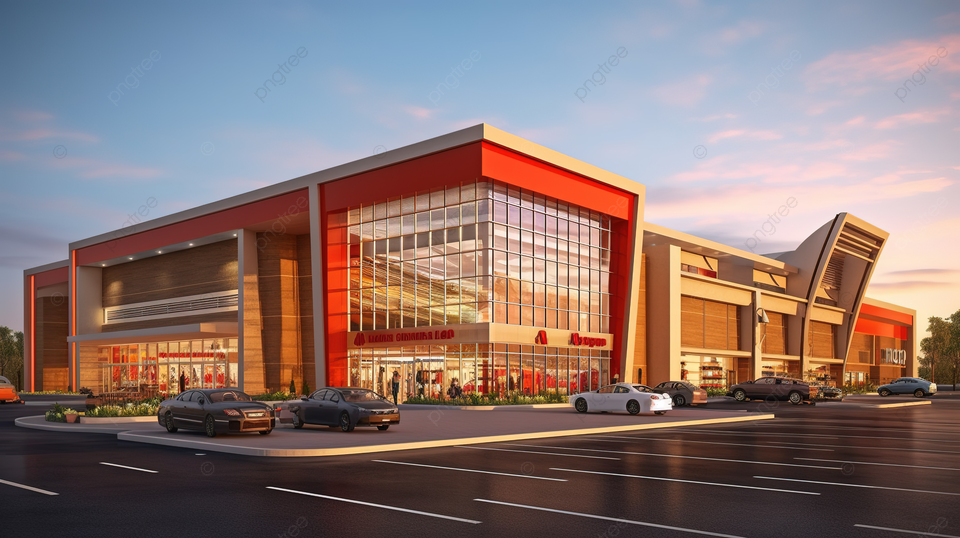
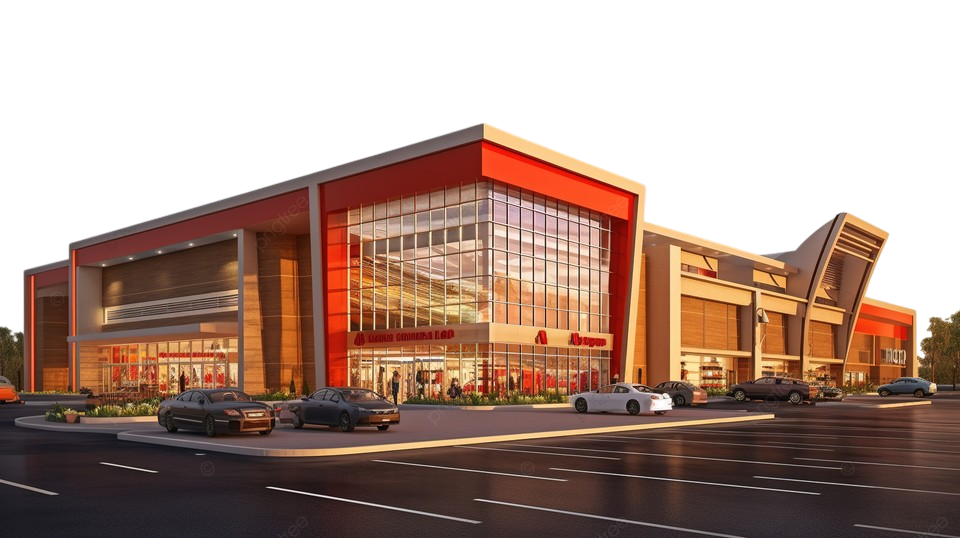
update

diff --git a/src/app/module/auth/formAuthLogin.tsx b/src/app/module/auth/formAuthLogin.tsx
@@ -1,0 +1,105 @@
+import React from "react";
+import useAuth from "../../hooks/useAuth";
+import { useForm } from "react-hook-form";
+import { Link } from "react-router-dom";
+import { FaDiscord, FaGoogle } from "react-icons/fa6";
+import { Submit } from "../widgets/Submit";
+import { SignWithAuthCreated } from "./signWithAuthCreated";
+
+interface FormAuths {
+  input_iphone: string;
+  password_input: string;
+}
+
+export const FormAuthLogin: React.FC<FormAuths> = ({
+  input_iphone,
+  password_input,
+}) => {
+  const { error, isLoading, onSubmit, success } = useAuth({ methods: "login" });
+  const {
+    register,
+    reset,
+    formState: { errors },
+    handleSubmit,
+  } = useForm();
+
+  
+
+  return (
+    <div className="w-full flex relative justify-end items-center h-full">
+      <form
+        onSubmit={handleSubmit(onSubmit)}
+        className="w-full  lg:mx-28 z-10 max-w-lg rounded-3xl border py-5 backdrop-blur-lg px-8"
+      >
+        <SignWithAuthCreated sign="Sign in" link="/auth/registration" title="Sign Up" />
+        <div key={input_iphone} className="w-full relative  mb-6 md:mb-0">
+          <label
+            className="block uppercase tracking-wide text-white text-xs font-bold mb-2"
+            htmlFor={`grid-first-${input_iphone}`}
+          >
+            {input_iphone}
+          </label>
+          <input
+            className={`appearance-none block w-full bg-gray-50 text-gray-700 border rounded-lg py-3  px-4 mb-8 leading-tight focus:outline-none focus:bg-white ${
+              errors[input_iphone] && "border-red-500"
+            }`}
+            id={`grid-first-${input_iphone}`}
+            type="text"
+            {...register(input_iphone, {
+              required: "This field is required",
+            })}
+            placeholder="Jane"
+          />
+          {errors[input_iphone] && (
+            <>
+              <p className="text-white absolute -bottom-7 italic">
+                {errors[input_iphone].message}
+              </p>
+              <span className="bg-red-500 w-72 blur-md rounded-xl absolute h-4 -mt-6 -z-10">
+                {" "}
+              </span>
+            </>
+          )}
+        </div>
+        <div key={password_input} className="flex flex-wrap -mx-3 mb-6">
+          <div className="w-full relative px-3">
+            <label
+              className="block uppercase tracking-wide text-white text-xs font-bold mb-2"
+              htmlFor={`grid-${password_input}`}
+            >
+              {password_input}
+            </label>
+            <input
+              className={`appearance-none block w-full bg-gray-50 text-gray-700 border rounded-lg py-3  px-4 mb-8 leading-tight focus:outline-none focus:bg-white ${
+                errors[password_input] && "border-red-500"
+              }`}
+              id={`grid-${password_input}`}
+              {...register(password_input, {
+                required: "This field is required",
+              })}
+              type="password"
+              placeholder="****************"
+            />
+            {errors[password_input] && (
+              <>
+                <p className="text-white absolute  -bottom-0 italic">
+                  {errors[password_input].message}
+                </p>
+                <span className="bg-red-500 w-72 blur-md rounded-xl absolute h-4 -mt-6 -z-10">
+                  {" "}
+                </span>
+              </>
+            )}
+          </div>
+        </div>
+        <Submit
+          reset={reset}
+          isLoading={isLoading}
+          bottom2="Sign in"
+          success={success}
+          error={error}
+        />
+      </form>
+    </div>
+  );
+};

diff --git a/src/app/module/auth/signWithAuthCreated.tsx b/src/app/module/auth/signWithAuthCreated.tsx
@@ -1,0 +1,38 @@
+import React from 'react'
+import { FaDiscord, FaGoogle} from 'react-icons/fa6';
+import { Link } from 'react-router-dom';
+
+export const SignWithAuthCreated = ({link,title,sign}:{link:string,title:string,sign:string}) => {
+    return (
+      <div className="text-white">
+        <h1 className="text-2xl font-bold">{title}</h1>
+        <p>
+          Don`t have an account ?
+          <span className="text-rose-700 font-bold hover:text-black pl-4">
+            <Link to={link}>{sign}</Link>
+          </span>
+        </p>
+        <div className="flex my-7 gap-4 flex-col">
+          <button type='button' className="border flex justify-center items-center gap-3 border-slate-200 rounded-3xl py-2 hover:bg-white hover:text-slate-900 transition-all duration-400">
+            {" "}
+            <span>Continue with Google </span> <FaGoogle />
+          </button>
+          <button type='button' className="border flex justify-center items-center gap-3 border-slate-200 rounded-3xl py-2 hover:bg-white hover:text-slate-900 transition-all duration-400">
+            <span> Continue with Discord </span>
+            <FaDiscord />
+          </button>
+        </div>
+        <div className="my-8">
+          <div className="flex">
+            <div className="relative w-10 bg-black m-auto">
+              <span className="absolute -mt-[13px] font-bold text-base px-2 backdrop-blur-lg bg-black rounded ">
+                or
+              </span>
+            </div>
+          </div>
+          <hr />
+        </div>
+      </div>
+    );
+  };
+

diff --git a/src/app/module/auth/FormAuth.tsx b/src/app/module/auth/FormAuth.tsx
@@ -2,6 +2,7 @@ import React, { Component, ComponentProps, useState } from "react";
 import { useForm } from "react-hook-form";
 import useAuth from "../../hooks/useAuth";
 import { Submit } from "../widgets/Submit";
+import { SignWithAuthCreated } from "./signWithAuthCreated";
 
 interface FormAuths {
   first_input: string;
@@ -41,10 +42,12 @@ export const FormAuth: React.FC<FormAuths> = ({
   const { error, isLoading, onSubmit, success } = useAuth({methods:'register'});
   
   return (
+    <div className="w-full flex relative justify-start items-center h-full">
     <form
       onSubmit={handleSubmit(onSubmit)}
-      className="w-full fixed lg:ml-20 mt-32 ml-3 lg:mt-20 z-10 max-w-lg rounded-3xl border py-5 backdrop-blur-lg px-8"
+      className="w-full lg:ml-20 ml-3 z-10 max-w-lg rounded-3xl border py-5 backdrop-blur-lg px-8"
     >
+       <SignWithAuthCreated sign="Sign up" link="/auth/login" title="Sign in"/>
       <div className="flex flex-wrap -mx-3 mb-6">
         {[
           [first_input, "text"],
@@ -169,12 +172,14 @@ export const FormAuth: React.FC<FormAuths> = ({
         <Submit
           reset={reset}
           isLoading={isLoading}
-          bottom1="Log In"
-          bottom2="Register"
+          
+          bottom2="Sign Up"
           success={success}
           error={error}
         />
       </div>
     </form>
+    </div>
+
   );
 };

diff --git a/src/app/module/auth/components/Login.tsx b/src/app/module/auth/components/Login.tsx
@@ -1,23 +1,14 @@
 import React from "react";
-import { FormAuth } from "../FormAuth";
+import { FormAuthLogin } from "../formAuthLogin";
 
   export const Login = () => {
 
   return (
     <>
-      <div className="bg-gradient-to-t  from-transparent via-indigo-300 to-violet-600 w-full h-full absolute"></div>
-      <img
-        src="/pngtree-stunning-3d-render-of-a-modern-supermarket-image_13561321.png"
-        className="fixed  w-full h-[100%]  clip-triangle  shadow-red-600"
-        alt=""
-      />
-      <div className=" overflow-hidden w-full relative h-screen">
-        <FormAuth
-          first_input="name"
-          second_input="iphone"
-          three_input="password"
-          number_input="number"
-          input5="Role"
+      <div className="w-full relative h-screen">
+        <FormAuthLogin
+          input_iphone="iphone"
+          password_input="password"
         />
       </div>
     </>

diff --git a/src/app/module/auth/components/Registration.tsx b/src/app/module/auth/components/Registration.tsx
@@ -4,18 +4,12 @@ import { FormAuth } from '../FormAuth'
 export const Registration = () => {
   return (
      <>
-          <div className="bg-gradient-to-t  from-transparent via-indigo-300 to-violet-600 w-full h-full absolute"></div>
-          <img
-            src="/pngtree-stunning-3d-render-of-a-modern-supermarket-image_13561321.png"
-            className="fixed  w-full h-[100%]  clip-triangle  shadow-red-600"
-            alt=""
-          />
-          <div className=" overflow-hidden w-full relative h-screen">
+          <div className=" w-full relative">      
             <FormAuth
               first_input="name"
               second_input="iphone"
               three_input="password"
-              number_input="iphone"
+              number_input="tarjet"
               input5="Role"
             />
           </div>

diff --git a/src/app/module/widgets/Submit.tsx b/src/app/module/widgets/Submit.tsx
@@ -24,13 +24,17 @@ export const Submit: React.FC<FormComponentSubmit> = ({
         </button>
       </div>
       <div className="flex gap-4">
-        <button
+        {
+          bottom1 &&
+          <button
           type="button"
          
           className="text-white bg-gradient-to-br from-green-400 to-blue-600 hover:bg-gradient-to-bl focus:ring-4 focus:outline-none focus:ring-green-200  font-medium rounded-lg text-sm px-5 py-2.5 text-center me-2 mb-2"
         >
           {bottom1}
         </button>
+        }
+       
         <button
           type="submit"
           className="text-white bg-gradient-to-br from-purple-600 to-blue-500 hover:bg-gradient-to-bl focus:ring-4 focus:outline-none focus:ring-blue-300font-medium rounded-lg text-sm px-5 py-2.5 text-center me-2 mb-2"

diff --git a/src/index.css b/src/index.css
@@ -6,7 +6,7 @@
    clip-path: polygon(74.1% 44.1%, 100% 61.6%, 97.5% 26.9%, 85.5% 0.1%, 80.7% 2%, 72.5% 32.5%, 60.2% 62.4%, 52.4% 68.1%, 47.5% 58.3%, 45.2% 34.5%, 27.5% 76.7%, 0.1% 64.9%, 17.9% 100%, 27.6% 76.8%, 76.1% 97.7%, 74.1% 44.1%);
 }
 .clip-triangle {
- clip-path: polygon(36% 36%, 73% 46%, 92% 38%, 88% 54%, 100% 59% , 100%100%, 0 100%, 0 59%, 1% 44%, 11% 37%);
+   clip-path: polygon(100% 57%, 98% 60%, 97% 60%, 96% 63%, 96% 67%, 95% 58%, 90% 55%, 90% 55%, 92% 44%, 88% 40%, 83% 47%, 80% 48%, 67% 42%, 67% 34%, 51% 23%, 7% 45%, 7% 48%, 3% 50%, 2% 61%, 2% 64%, 1% 61%, 0% 61%, 0% 61%, 0% 100%, 99% 100%, 100% 100%);
 }
 
 .clip-addStore{

diff --git a/src/app/module/auth/AuthLayout.tsx b/src/app/module/auth/AuthLayout.tsx
@@ -3,7 +3,12 @@ import { Link, Outlet } from 'react-router-dom'
 
 export const AuthLayout = () => {
   return (
-    <div className='d-flex flex-column flex-lg-row flex-column-fluid h-100'>
+    <div className='d-flex bg-gradient-to-l from-blue-700 to-purple-500 flex-column flex-lg-row flex-column-fluid h-100'>
+      <img
+        src="/pngtree-stunning-3d-render-of-a-modern-supermarket-image_13561321.png"
+        className="fixed  w-full h-[100%]    shadow-red-600"
+        alt=""
+      />
             <Outlet />
     </div>
   )

diff --git a/src/app/hooks/useAuth.tsx b/src/app/hooks/useAuth.tsx
@@ -25,7 +25,7 @@ const useAuths  = ({methods}:TypeuseAuth ) => {
     try {
       if (methods == "login") {
          auth = await login(data)
-        saveAuth(auth?.data?.userclient)
+        saveAuth(auth?.data)
       }else if(methods == "register"){
          auth = await register(data)
         saveAuth(auth?.data)

diff --git a/src/app/router/router.tsx b/src/app/router/router.tsx
@@ -10,7 +10,6 @@ import { useAuth } from "../module/auth/core/Auth";
 
 export const Routers = () => {
   const { currentUser } = useAuth();
-  console.log(currentUser);
 
   return (
     <BrowserRouter basename={PUBLIC_URL}>

diff --git a/src/interface/formComponentProp.ts b/src/interface/formComponentProp.ts
@@ -9,7 +9,7 @@ export interface FormComponentPropsCategory {
     error:string | null;
     success:boolean;
     reset:any;
-    bottom1:string;
+    bottom1?:string;
     bottom2:string;
   }
   
